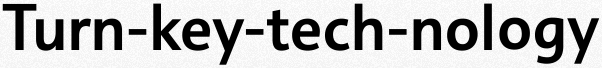
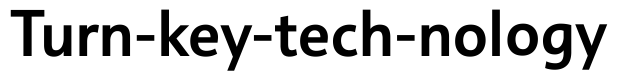
latest

diff --git a/app/assets/stylesheets/application.css.scss b/app/assets/stylesheets/application.css.scss
@@ -169,15 +169,41 @@ position:relative;
     height: 550px; 
     background: url(/assets/home-pattern-light.png) no-repeat center center;
   }
-
+	
   section.main {
-    padding: 15px 20px;
+    padding: 25px 20px;
     margin-bottom: 60px;
 
     img {
       float: left;
     }
-
+		h1 {
+		      margin: 85px 0 12px 410px;
+		      text-indent: -9999px;
+		      background: url(/assets/track-the-impact.png);
+		      width: 446px;
+		      height: 27px;
+		    }
+		    p {
+		      font-size: 15px;
+		      color: #fff;
+		      line-height: 25px;
+		      margin: 0 0 17px 410px;
+		    }
+		    a {
+		      display: block;
+		      margin-left: 410px;
+		      background: #ff6833;
+		      text-transform: uppercase;
+		      text-decoration: none;
+		      text-align: center;
+		      font-size: 13px;
+		      font-weight: bold;
+		      color: #fff;
+		      width: 90px;
+		      line-height: 30px;
+		      border-radius: 3px;
+		    }
     
   }
 
@@ -322,8 +348,23 @@ position:relative;
 
 #why-blocks {
   float: left;
-  padding-bottom: 80px;
-
+width:100%;
+  padding: 0px 30px 80px 20px;
+	.left {float:left;
+	.content {
+	margin:0px 20px 0 20px;
+		h1 {font-size:20px;padding:20px 0 20px 0;	}
+		p {font-size:12px;width:350px;line-height:23px;}
+	}
+	}
+	.right {float:left;
+	.content {
+	margin:0px 20px 0 20px;
+		h1 {font-size:20px;padding:20px 0 20px 0;}
+		p {font-size:12px;width:350px;line-height:23px;}
+	}
+	}
+	
   section {
     float: left;
 
@@ -339,21 +380,21 @@ position:relative;
 
     &.influences {
       width: 270px;
-      background: url(/assets/how-snap.png) no-repeat;
+      background: url(/assets/icon-curate.png) no-repeat;
       padding-left: 60px;
     }
 
     &.emotion {
       width: 280px;
-      background: url(/assets/how-tap.png) no-repeat;
+      background: url(/assets/icon-heart.png) no-repeat;
       padding-left: 50px;
     }
 
     &.behaviour {
       width: 260px;
-      background: url(/assets/how-amplify.png) no-repeat;
+      background: url(/assets/icon-drive.png) no-repeat;
       margin-right: 0;
-      padding-left: 70px;
+      padding-left: 60px;
     }
   }
 }
@@ -366,8 +407,8 @@ position:relative;
   hgroup h1 {
     text-indent: -9999px;
     background: url(/assets/turn-key-tech-nology.png);
-    width: 602px;
-    height: 68px;
+    width: 612px;
+    height: 73px;
     margin: 50px auto 30px;
   }
 
@@ -440,6 +481,90 @@ position:relative;
 
 }
 
+#tech-track {
+  background: url(/assets/home-pattern.png);
+
+  div.light {
+    height: 550px; 
+    background: url(/assets/home-pattern-light.png) no-repeat center center;
+  }
+	
+  section.main {
+    padding: 45px 20px;
+    margin-bottom: 60px;
+
+    img {
+      float: left;
+    }
+		h1 {
+		      margin: 85px 0 12px 410px;
+		      text-indent: -9999px;
+		      background: url(/assets/track-the-impact.png);
+		      width: 446px;
+		      height: 27px;
+		    }
+		    p {
+		      font-size: 15px;
+		      color: #fff;
+		      line-height: 25px;
+		      margin: 0 0 17px 410px;
+		    }
+		    a {
+		      display: block;
+		      margin-left: 410px;
+		      background: #ff6833;
+		      text-transform: uppercase;
+		      text-decoration: none;
+		      text-align: center;
+		      font-size: 13px;
+		      font-weight: bold;
+		      color: #fff;
+		      width: 90px;
+		      line-height: 30px;
+		      border-radius: 3px;
+		    }
+    
+  }
+
+  div.blocks {
+    float: left;
+    padding-left: 65px;
+
+    section {
+      float: left;
+      margin-right: 20px;
+
+      h1, p {
+        font-size: 15px;
+        color: #fff;
+        line-height: 25px;
+      }
+      h1 {
+        margin-top: -5px;
+      }
+
+      &.tags {
+        width: 240px;
+        padding-left: 50px;
+        background: url(/assets/home-location.png) no-repeat;
+      }
+
+      &.contacts {
+        width: 240px;
+        padding-left: 60px;
+        background: url(/assets/home-contact.png) no-repeat;
+      }
+
+      &.cloud {
+        margin-right: 0;
+        width: 220px;
+        padding-left: 70px;
+        background: url(/assets/home-cloud.png) no-repeat;
+      }
+    }
+  }
+}
+
 /**
  * Clients
  */
@@ -454,7 +579,7 @@ position:relative;
 #clients-left {
   float: left;
   width: 424px;
-  margin-left: 50px;
+  margin-left: -30px;
   margin-bottom: 60px;
 
   img {
